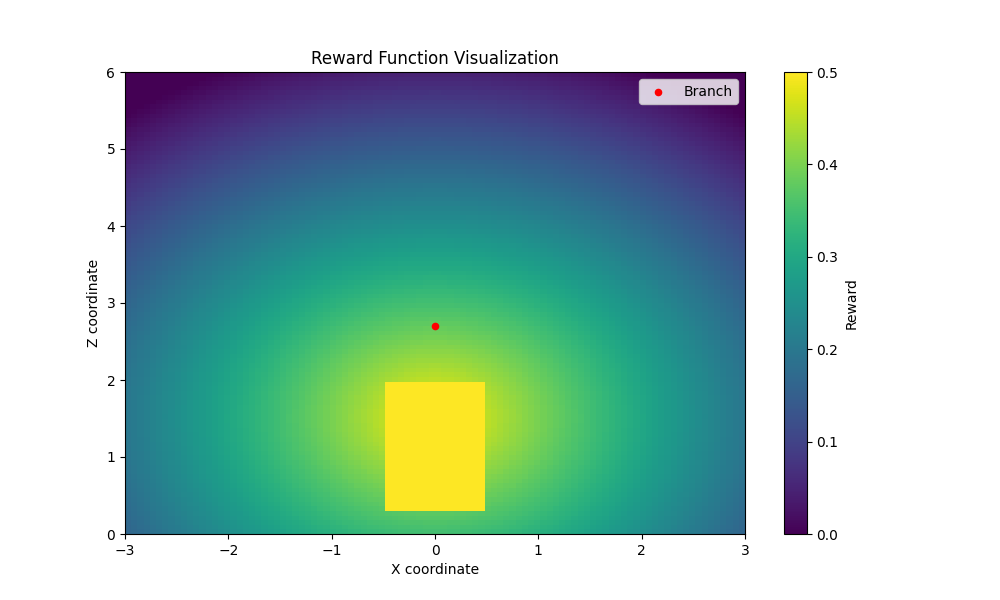
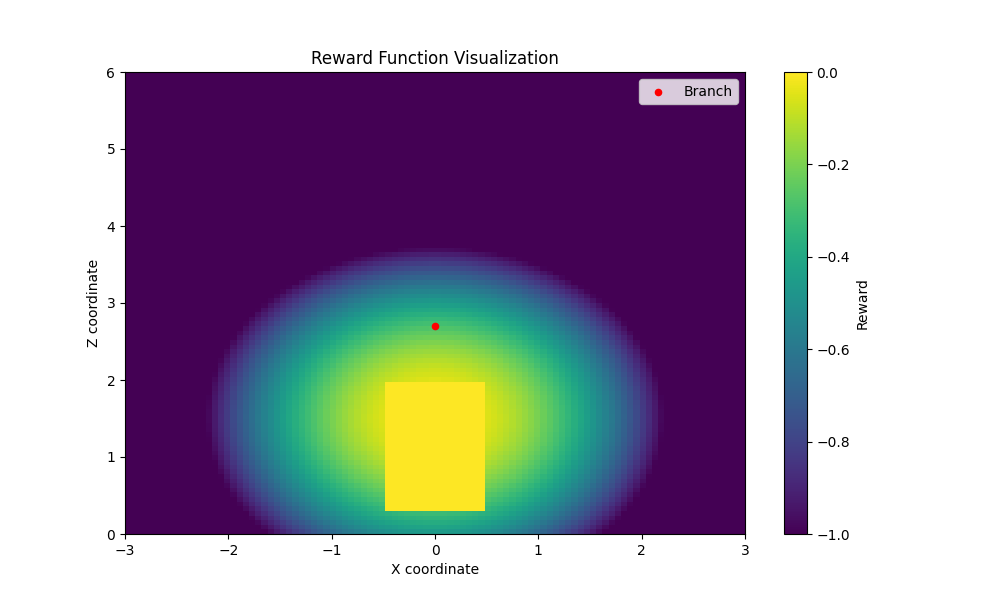
try new hanging reward

diff --git a/04_Repository/Gym/Rewards/Hanging.py b/04_Repository/Gym/Rewards/Hanging.py
@@ -14,6 +14,6 @@ class Hanging():
         x, y, z = state
 
         if z < 2.0 and z > 0.3 and x > -0.5 and x < 0.5:
-            return 0.5, True, None
+            return 1.0, True, None
         else:
-            return max(0, 0.5 - 0.1 * _distance([x, z], [0, 1.5])), False, None
+            return max(0.0, 1.0 - 0.2 * _distance([x, z], [0, 1.5]) *  _distance([x, z], [0, 1.5])), False, None
